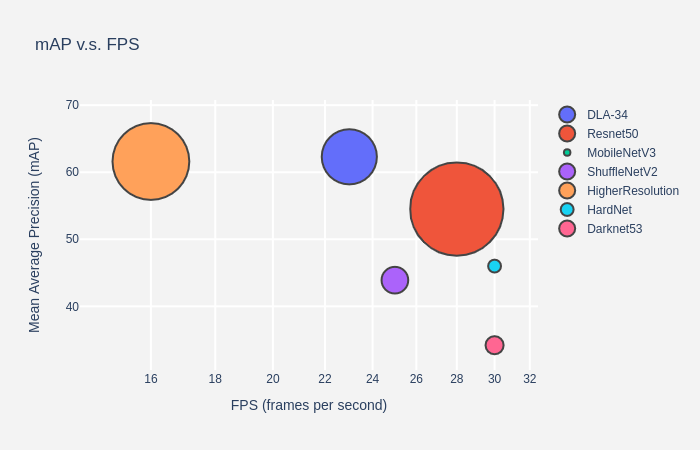
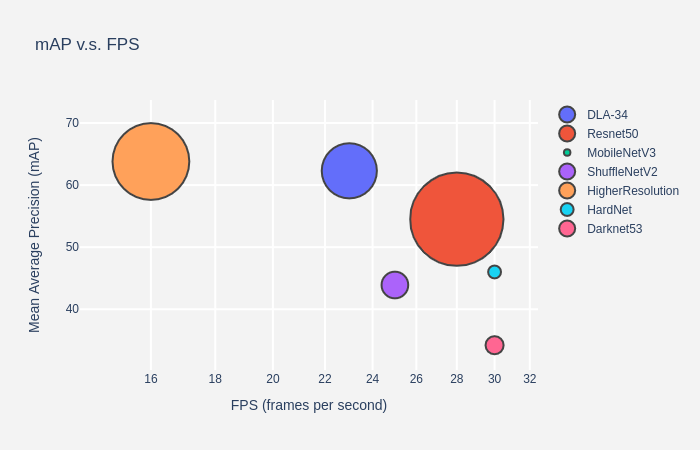
update better hrnet model

diff --git a/readme/plot_speed_accuracy.py b/readme/plot_speed_accuracy.py
@@ -14,7 +14,7 @@ continent_data['DLA-34'] = {'map':[62.3], 'speed':[23], 'size':82.7/1.5}
 continent_data['Resnet50'] = {'map':[54.5], 'speed':[28], 'size':139.8/1.5}
 continent_data['MobileNetV3'] = {'map':[46.0], 'speed':[30], 'size':9.7/1.5}
 continent_data['ShuffleNetV2'] = {'map':[43.9], 'speed':[25], 'size':40./1.5}
-continent_data['HigherResolution'] = {'map':[61.6], 'speed':[16], 'size':115.2/1.5}
+continent_data['HigherResolution'] = {'map':[63.8], 'speed':[16], 'size':115.2/1.5}
 continent_data['HardNet'] = {'map':[46.0], 'speed':[30], 'size':19.3/1.5}
 continent_data['Darknet53'] = {'map':[34.2], 'speed':[30], 'size':27.1/1.5}
 

diff --git a/README.md b/README.md
@@ -13,7 +13,7 @@ multi person pose estimation using center point detection:
 |Resnet-50     | 54.5     |    28      |  33 |  - |[model](https://drive.google.com/open?id=1oBgWrfigo2fGtpQJXQ0stADTgVFxPWGq)  |
 |MobilenetV3   | 46.0      |    30      |  - |  - |[model](https://drive.google.com/open?id=1snJnADAD1NUzyO1QXCftuZu1rsr8095G)  |
 |ShuffleNetV2  | 43.9      |    25      |  - |  - |[model](https://drive.google.com/open?id=1FK7YQzCB6mLcb0v4SOmlqtRJfA-PQSvN)  |
-|[High Resolution](https://drive.google.com/open?id=1WJiHbFkIEPQigorJg8cw6p0Nps1enc-d)| 61.6 |    16      |  - |  - |[model](https://drive.google.com/open?id=1X0yxGeeNsD4VwU2caDo-BaH_MoCAnU_J)  |
+|[HRNet_W32](https://drive.google.com/open?id=1mJoK7KEx35Wgf6uAZ-Ez5IwAeOk1RYw0)| 63.8 |    16      |  - |  - |[model](https://drive.google.com/open?id=1X0yxGeeNsD4VwU2caDo-BaH_MoCAnU_J)  |
 |[HardNet](https://github.com/PingoLH/FCHarDNet)| 46.0    |    30        | -  |  - |[model](https://drive.google.com/open?id=1CFc_qAAT4NFfrAG8JOxRVG8CAw9ySuYp)  |
 |[Darknet53]()| 34.2    |    30        | -  |  - |[model](https://drive.google.com/open?id=1S8spP_QKHqIYmWpfF9Bb4-4OoUXIOnkh)  |
 |[EfficientDet]()| 34.2    |    30        | -  |  - |[model](https://drive.google.com/open?id=1S8spP_QKHqIYmWpfF9Bb4-4OoUXIOnkh)  |
